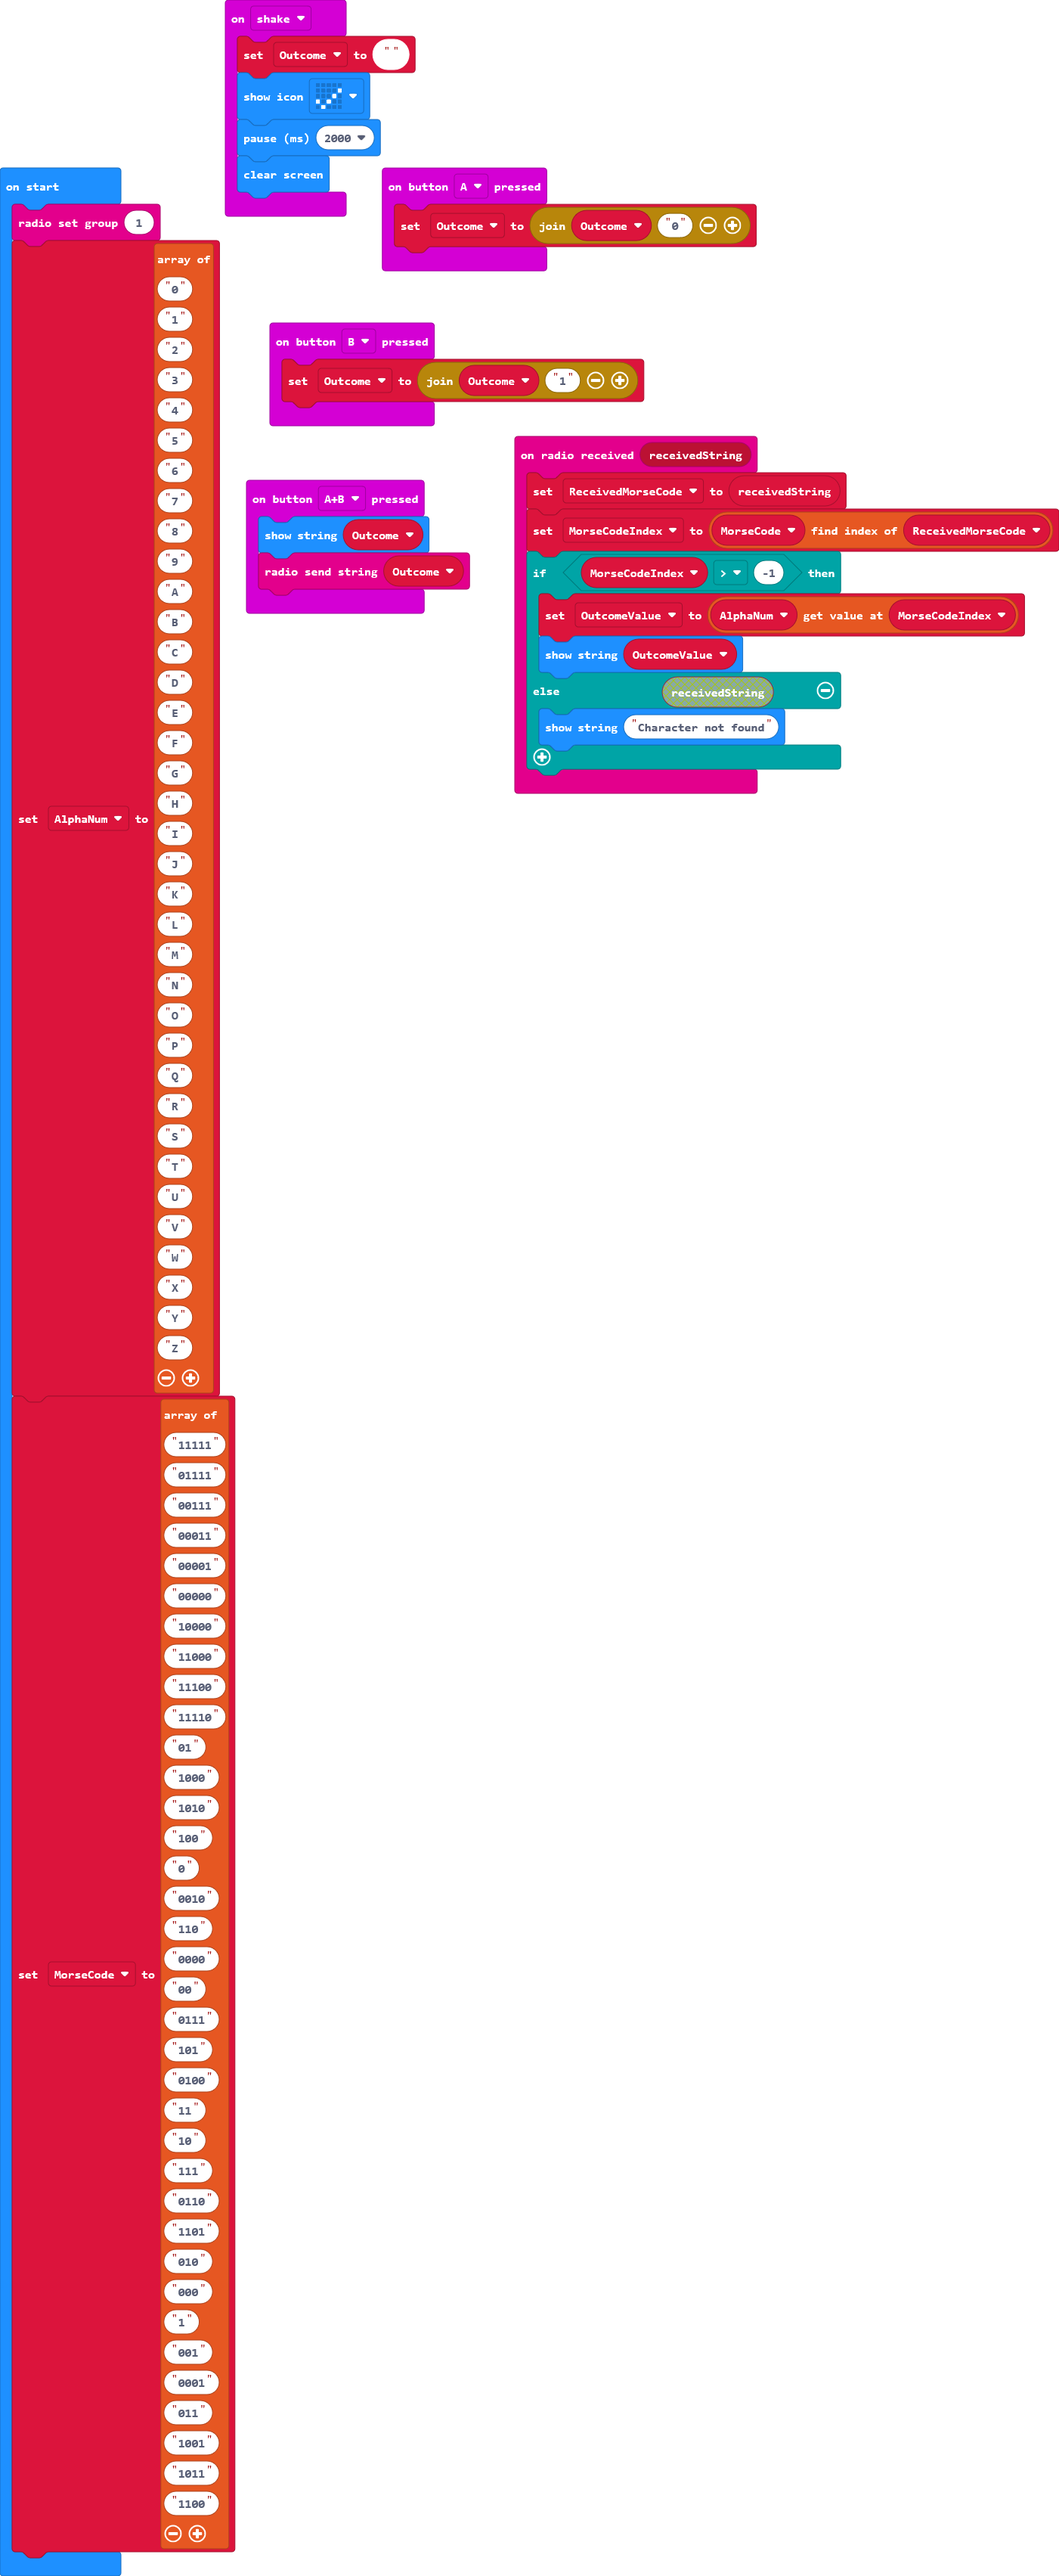
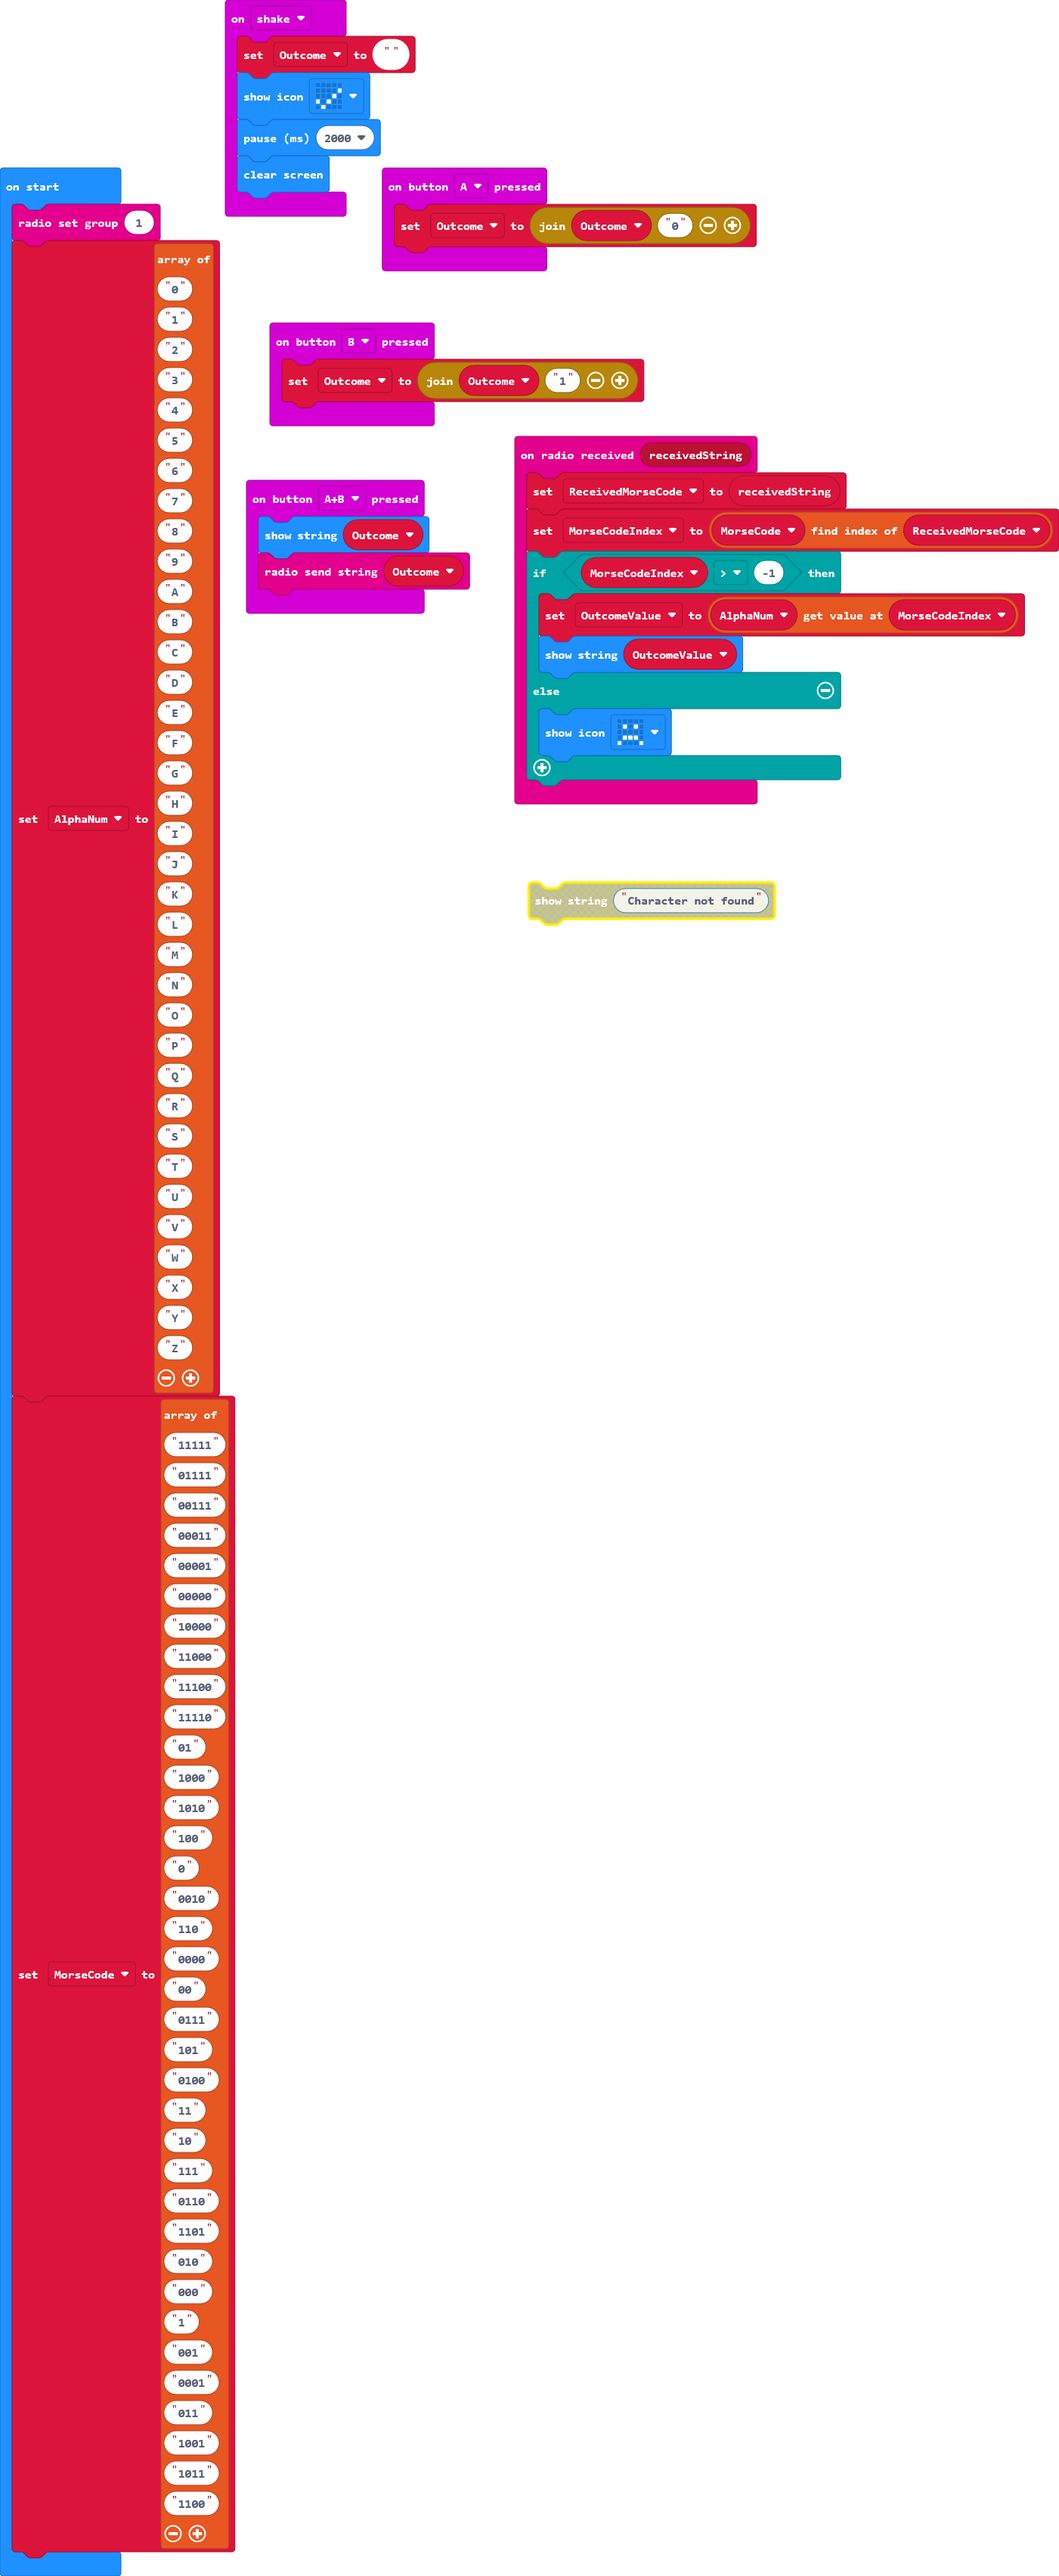
Update main.blocks, main.ts

Changed region(s): [[0.4911, 0.249, 0.798, 0.3112], [0.4911, 0.3423, 0.7366, 0.3735]]

diff --git a/main.ts b/main.ts
@@ -12,7 +12,7 @@ radio.onReceivedString(function (receivedString) {
         OutcomeValue = AlphaNum[MorseCodeIndex]
         basic.showString("" + (OutcomeValue))
     } else {
-        basic.showString("Character not found")
+        basic.showIcon(IconNames.Sad)
     }
 })
 input.onButtonPressed(Button.B, function () {
